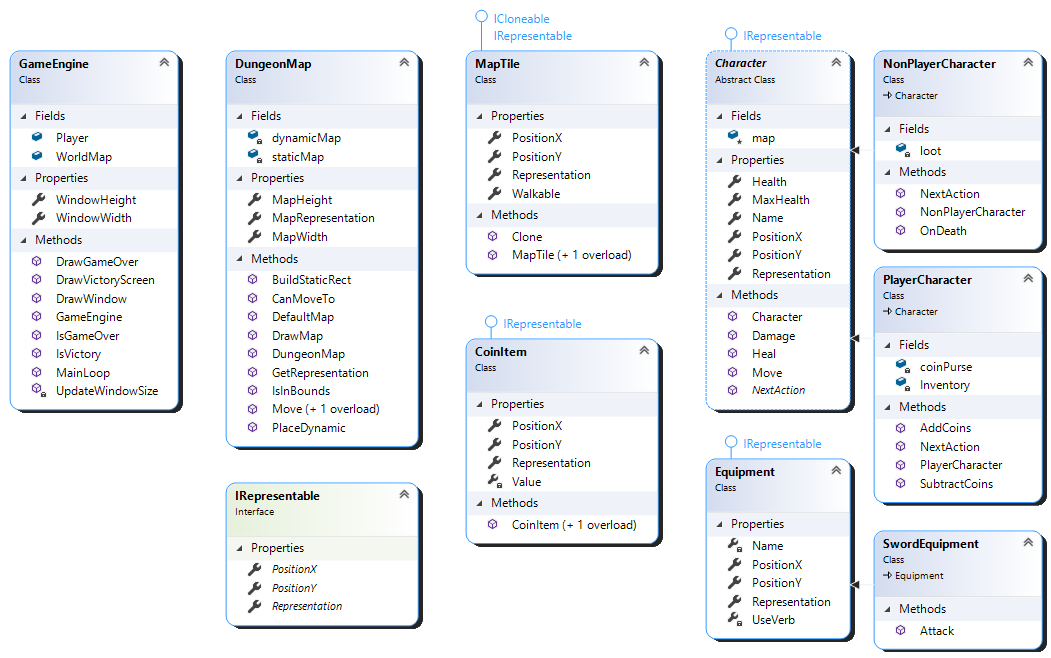
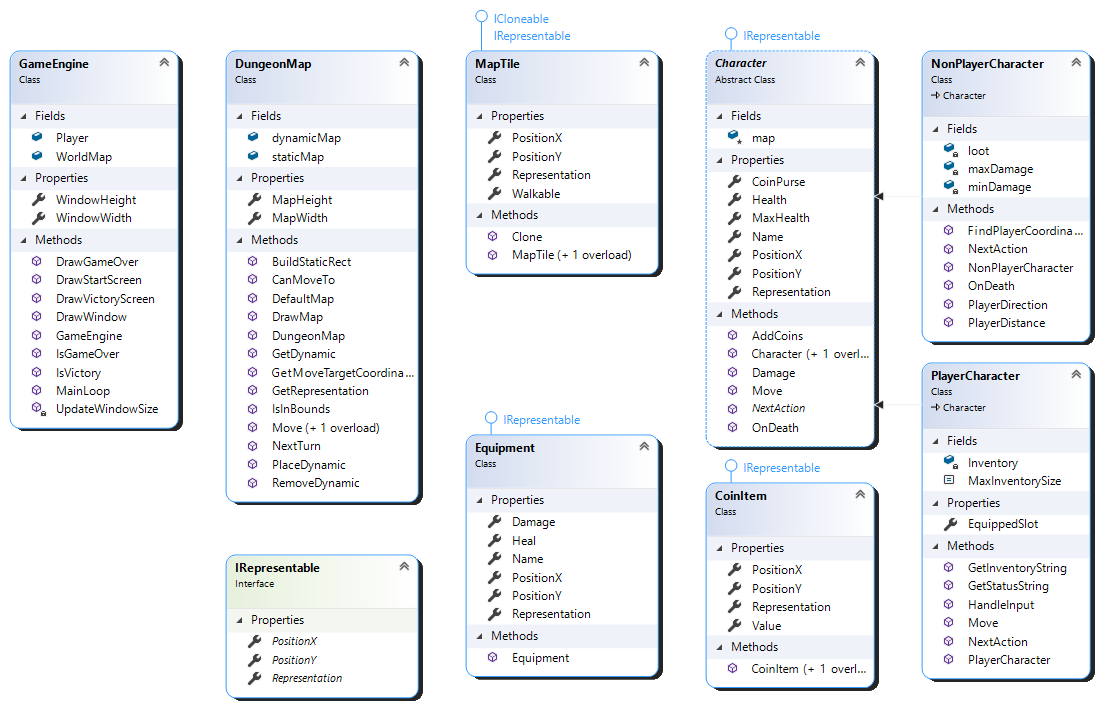
README.md and screenshots.

Changed region(s): [[0.0, 0.0, 1.0, 1.0]]

diff --git a/DungeonCrawler/GameEngine.cs b/DungeonCrawler/GameEngine.cs
@@ -47,7 +47,7 @@ namespace DungeonCrawler
             WorldMap.PlaceDynamic(84, 27, axe);
             WorldMap.PlaceDynamic(96, 3, axe);
 
-            CoinItem coin = new CoinItem(40, '£');
+            CoinItem coin = new CoinItem(100, '£');
             WorldMap.PlaceDynamic(45, 39, coin);
 
             // place enemies on map

diff --git a/README.md b/README.md
@@ -21,61 +21,46 @@ Uppdatera spelarens status (Flytta runt, healing, attack, etc.)
 Uppdatera status för alla monster (Flytta runt, healing, attack, etc.)  
 Uppdatera status för eventuellt andra saker  
 Rita ut ny karta  
-Visa alternativ  
+Visa status/alternativ  
 Ta in input  
 *Något mer, vilken ordning?*  
   
-### Character - Generisk basklass för alla karaktärer (spelare, fiender, djur, etc.)
-* Health?  
-* Strength?  
-Funktion för Move(Direction), kallar på funktion hos Kartan att uppdatera position av karaktärsobjekt till specifik ruta.  
-Kan aktivera funktioner hos objekt i inventory för att utföra andra handlingar än att gå.  
-Ska allt som kan röra sig i världen vara av basklass character, eller ska vi implementera Move() som interface?  
+### IRepresentable - Interface för objekt som ska kunna representeras på kartan  
+Alla objekt som ska ritas ut på kartan behöver ha ett tecken som representerar objektet,
+och även en position.  
+För att göra det enhetligt hur detta representeras läggs den funktionaliteten i ett interface.  
   
-Förslag: Om kartan är ASCII-baserad så kommer karaktärer behöva representeras av ett tecken, lagra detta tecken i karaktärsobjekt?  
-I så fall kan kartan för varje objekt på kartan kunna kalla på property 'Representation' för att få detta tecken.
-
+### Character - Generisk basklass för alla karaktärer (spelare, fiender, djur, etc.)
+* Health  
+* Name
+* IRepresentation
+* CoinPurse  
+Funktion för Move(Direction), kallar på funktion hos Kartan att uppdatera position av karaktärsobjekt till specifik ruta. Kan overload:as hos underklasser för att implementera mer logik.  
+Kan aktivera funktioner hos objekt i inventory för att utföra andra handlingar än att gå.  
+  
 ### Player : Character  
 Klass som ärver från Character, kontrollerbar av användaren.
 
 ### NonPlayerCharacter : Caracter
 Klass som ärver från Character, kontrolleras ej av spelaren.  
-Förslag: Kan eventuellt flytta runt lite av sig själv?  
-Om springer på spelare så gör skada?  
-
-### Equipment-objekt
-Funktion för Use(Target) som aktiverar funktion, eller ska vi implementera Use(Target) i ett interface?  
-Förslag: Innehåller ett Verb-property som säger vad det kallas att använda objektet.  
-Exempelvis "Attack" eller "Swing" för svärd, "Drink" för Potions, etc.  
-Abstrakt metod för Use(target).  
+Representerar monster i spelet, innehåller några mallar för defaultmonster i konstruktorn.  
   
-Om objekt ska kunna ligga på marken för att plockas upp av spelaren så behöver vi kunna representera även det med ett tecken för objektet.  
-
-### Potion : Equipment
-Klass som ärver från Equipment.  
-Implementerar Use()  
-
-### Sword : Equipment
-Klass som ärver Equipment.  
-Implementerar Use()  
+### Equipment-objekt : IRepresentable
+Property för hur mycket skada eller healing som det kan göra.  
+Innehåller ett Verb-property som säger vad det kallas att använda objektet. Exempelvis "Attack" eller "Swing" för svärd, "Drink" för Potions, etc.  
   
 ### Map-objekt
-Innehåller ett 2D-array (eller lista?) för hela spelvärlden, där varje element visar vad rutan innehåller.  
-*Om vi gör på detta vis kan endast ett objekt/karaktär finnas i en ruta åt gången.*  
-object[,] world = object[height,width];  
-Ett array av typen 'object' kan innehålla alla objekt oavsett typ eftersom alla objekt ärver från 'object'.  
-Ska det kunna finnas 'null'-rutor, eller ska vi implementera exempelvis att det finns Floor-objekt för att hålla
-reda på vart spelaren kan gå, och Wall-objekt som säger vart spelaren inte kan gå?  
-* Steg 1, handgjord karta.
-* Steg 2, eventuellt procedurellt genererad karta.  
+Innehåller två 2D-arrayer för hela spelvärlden, där varje element visar vad rutan innehåller.  
+*public MapTile[,] staticMap; // Walls, floors.*  
+*public IRepresentable[,] dynamicMap; // Stuff that move or change, player, monsters, items, etc.*  
 Stödmetoder för att göra kartskapande enklare:  
-DrawPoint(x, y, object) - Placerar ut ett *object* på position x,y.  
 DrawRect(x,y, width, height, borderObject, fillObject) - Placerar ut en rektangel på kartan med väggar av *borderObject* och fylld med *fillObject*.  
+DefaultMap() för att skapa en standardkarta.  
   
-Förslag: Innehåller två 2D-arrayer för världen, en med endast grundkarta med väggar/golv och en som innehåller alla characters/andra objekt som finns i världen?  
-Då vet vi automatisk vad som ska finnas i en ruta om inget annat finns där, ex. när spelaren flyttar på sig eller plockar upp ett item från kartan.  
-Behöver metod för att skapa string-representation av den del av världen som vi befinner oss i. *string MapString(x,y,width,height)?*  
-  
+### MapTile : IRepresentable  
+Representerar statiska objekt i spelvärlden som inte flyttar på sig.  
+Utöver IRepresentable så har den property *Walkable* som visar var karaktärer kan gå.  
+
 ### Victory/lose condition 
 * Game Over-skärm
 * Victory-skärm
@@ -83,3 +68,4 @@ Behöver metod för att skapa string-representation av den del av världen som v
 ### Referensmaterial
 Liknande spel: https://en.wikipedia.org/wiki/Rogue_(video_game)
   
+## Screenshots/Resultat  
